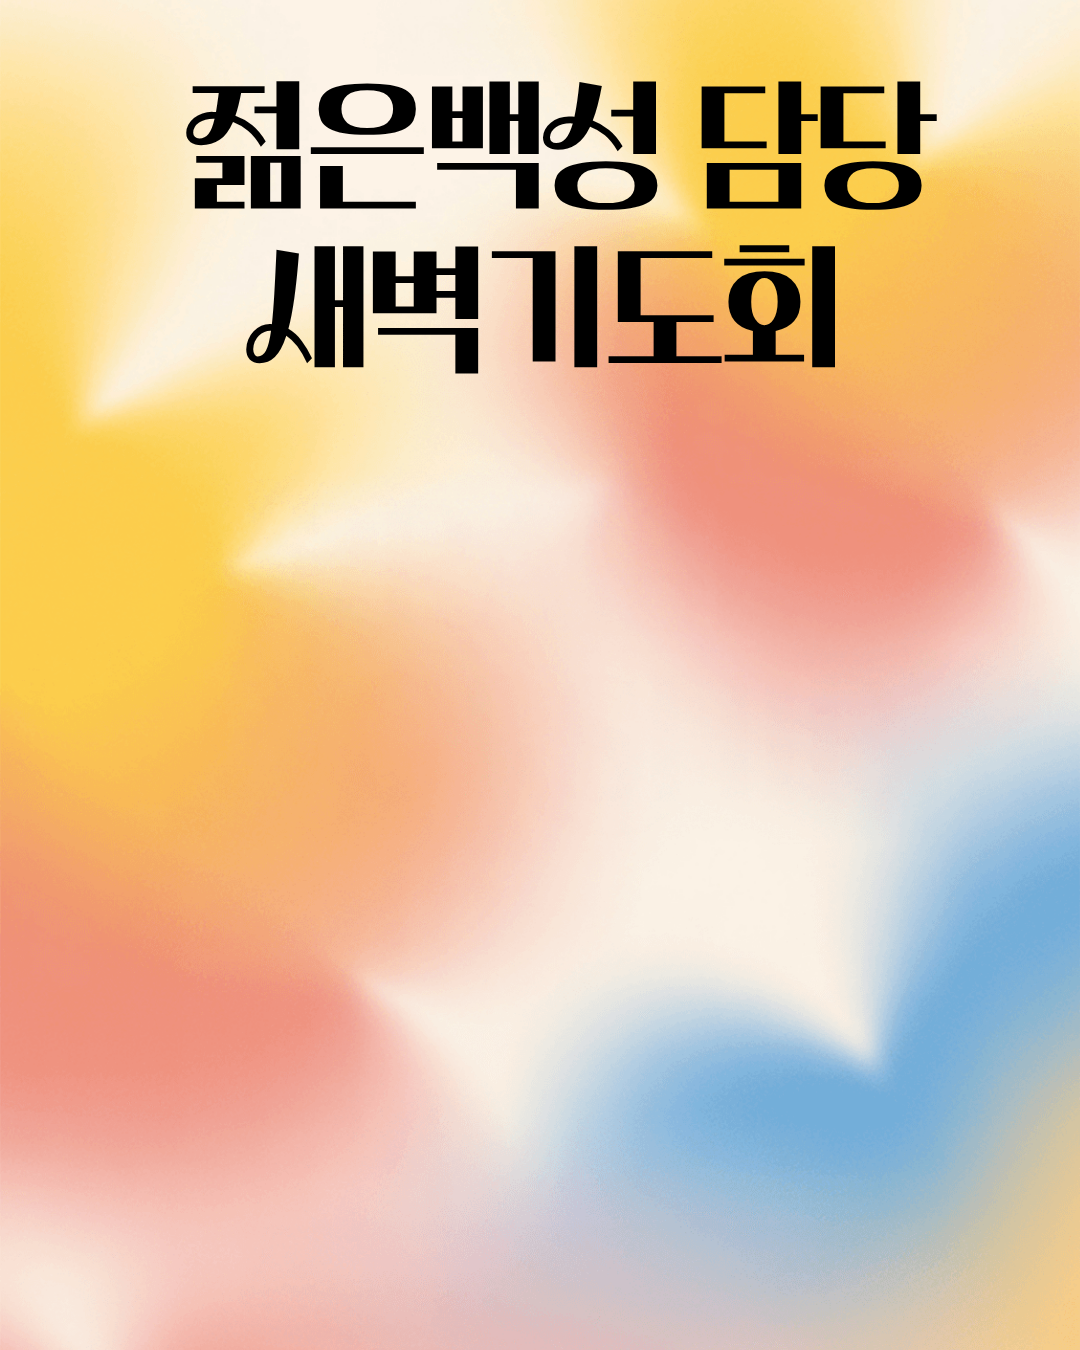
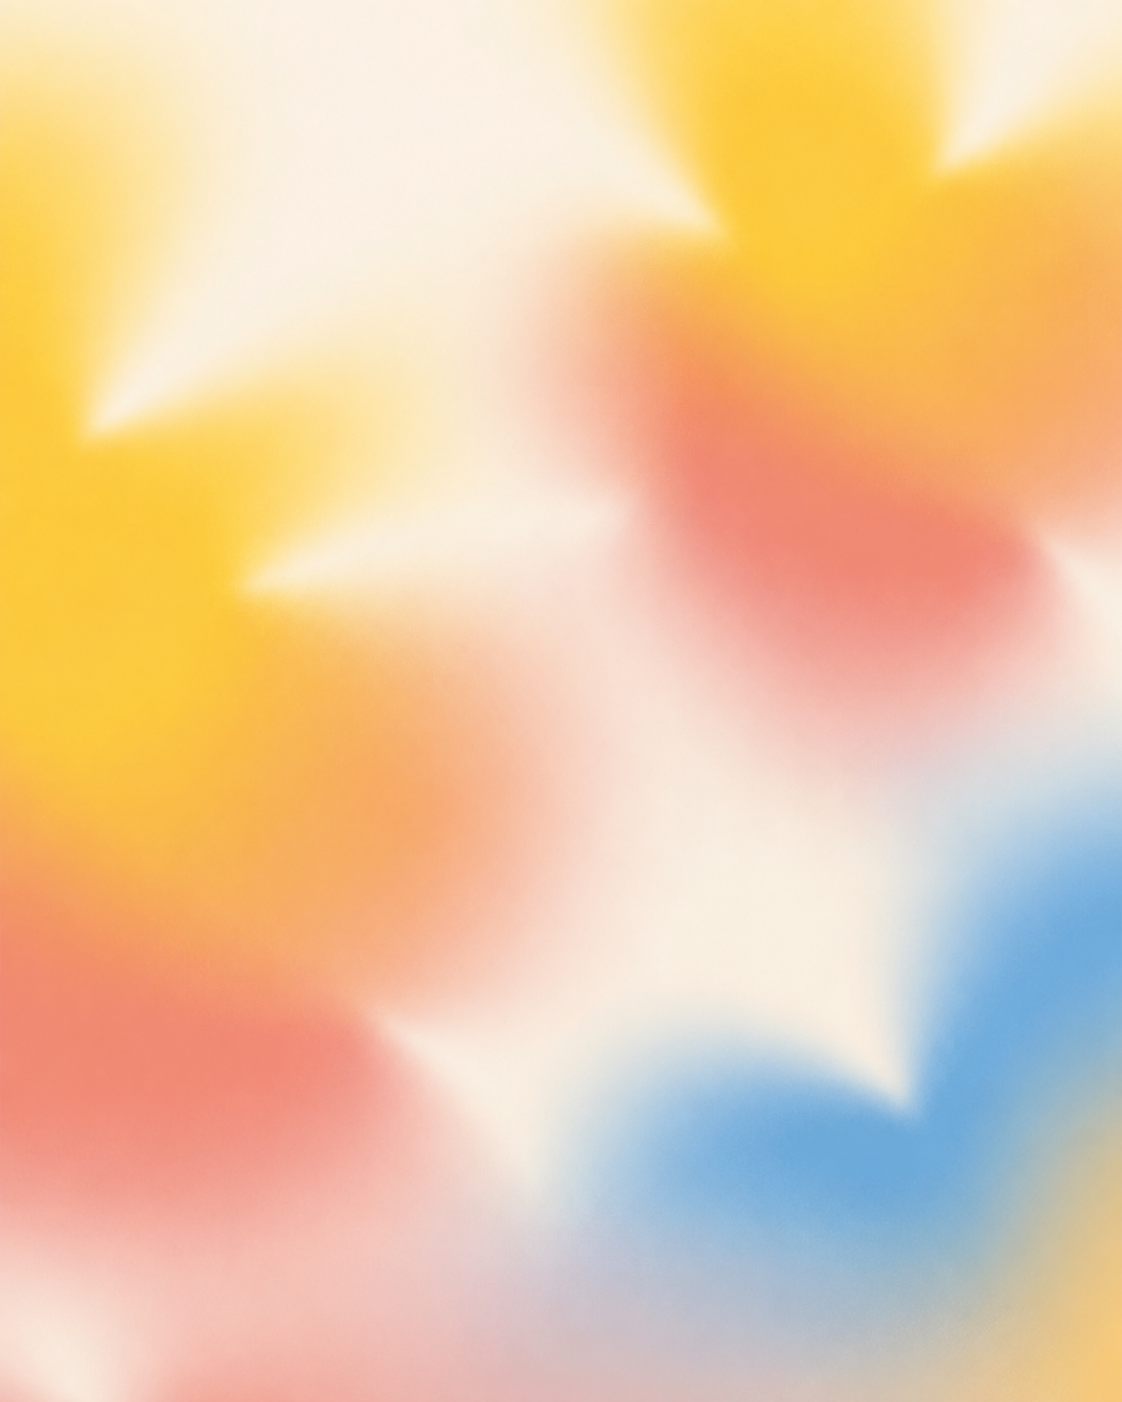
feat: 새벽기도회 체크인 화면에 누적 출석 게이지 추가
목회팀을 제외한 누적 출석 인원을 150/200/230/250명 선물 목표와 함께 진행 바로 표시. 체크인 패널은 compact 모드로 축소하고 게이지는 패널과 같은 카드 스타일로 분리 배치.

Changed region(s): [[0.1528, 0.0622, 0.8556, 0.28]]

diff --git a/src/components/Keypad.tsx b/src/components/Keypad.tsx
@@ -4,6 +4,7 @@ type KeypadProps = {
   maxLength?: number
   disabled?: boolean
   onReset?: () => void
+  size?: 'default' | 'compact'
 }
 
 const ROW1 = [
@@ -36,7 +37,12 @@ function BackspaceIcon() {
   )
 }
 
-export function Keypad({ value, onChange, maxLength = 4, disabled = false, onReset }: KeypadProps) {
+export function Keypad({ value, onChange, maxLength = 4, disabled = false, onReset, size = 'default' }: KeypadProps) {
+  const isCompact = size === 'compact'
+  const keyHeight = isCompact ? 'min-h-[56px] sm:min-h-[64px]' : 'min-h-[80px] sm:min-h-[88px]'
+  const digitTextSize = isCompact ? 'text-2xl sm:text-3xl' : 'text-3xl sm:text-4xl'
+  const containerPadding = isCompact ? 'p-2 sm:p-3 gap-2' : 'p-3 sm:p-4 gap-3'
+
   const handleDigit = (digit: string) => {
     if (disabled || value.length >= maxLength) return
     onChange(value + digit)
@@ -52,57 +58,57 @@ export function Keypad({ value, onChange, maxLength = 4, disabled = false, onRes
       type="button"
       disabled={disabled}
       onClick={() => handleDigit(item.digit)}
-      className="min-h-[80px] sm:min-h-[88px] w-full rounded-2xl bg-white text-slate-800 shadow-[0_2px_4px_rgba(0,0,0,0.08)] border border-slate-200/80 flex flex-col items-center justify-center select-none touch-manipulation active:scale-[0.97] disabled:opacity-50 hover:bg-slate-50"
+      className={`${keyHeight} w-full rounded-2xl bg-white text-slate-800 shadow-[0_2px_4px_rgba(0,0,0,0.08)] border border-slate-200/80 flex flex-col items-center justify-center select-none touch-manipulation active:scale-[0.97] disabled:opacity-50 hover:bg-slate-50`}
     >
-      <span className="text-3xl sm:text-4xl font-semibold leading-none">{item.digit}</span>
+      <span className={`${digitTextSize} font-semibold leading-none`}>{item.digit}</span>
     </button>
   )
 
   return (
-    <div className="w-full max-w-sm mx-auto bg-gray-200 rounded-3xl p-3 sm:p-4 gap-3 grid grid-cols-3">
+    <div className={`w-full max-w-sm mx-auto bg-gray-200 rounded-3xl grid grid-cols-3 ${containerPadding}`}>
       {ROW1.map((item) => (
-        <div key={item.digit} className="min-h-[80px] sm:min-h-[88px]">
+        <div key={item.digit} className={keyHeight}>
           {renderDigitKey(item)}
         </div>
       ))}
       {ROW2.map((item) => (
-        <div key={item.digit} className="min-h-[80px] sm:min-h-[88px]">
+        <div key={item.digit} className={keyHeight}>
           {renderDigitKey(item)}
         </div>
       ))}
       {ROW3.map((item) => (
-        <div key={item.digit} className="min-h-[80px] sm:min-h-[88px]">
+        <div key={item.digit} className={keyHeight}>
           {renderDigitKey(item)}
         </div>
       ))}
       {/* Row 4: 초기화 | 0 | 삭제 */}
-      <div className="min-h-[80px] sm:min-h-[88px]">
+      <div className={keyHeight}>
         <button
           type="button"
           disabled={disabled || !onReset}
           onClick={onReset}
-          className="min-h-[80px] sm:min-h-[88px] w-full rounded-2xl bg-white text-slate-600 shadow-[0_2px_4px_rgba(0,0,0,0.08)] border border-slate-200/80 flex items-center justify-center select-none touch-manipulation active:scale-[0.97] disabled:opacity-50 hover:bg-slate-50 text-sm sm:text-base font-medium"
+          className={`${keyHeight} w-full rounded-2xl bg-white text-slate-600 shadow-[0_2px_4px_rgba(0,0,0,0.08)] border border-slate-200/80 flex items-center justify-center select-none touch-manipulation active:scale-[0.97] disabled:opacity-50 hover:bg-slate-50 text-sm sm:text-base font-medium`}
           aria-label="초기화"
         >
           초기화
         </button>
       </div>
-      <div className="min-h-[80px] sm:min-h-[88px]">
+      <div className={keyHeight}>
         <button
           type="button"
           disabled={disabled}
           onClick={() => handleDigit('0')}
-          className="min-h-[80px] sm:min-h-[88px] w-full rounded-2xl bg-white text-slate-800 shadow-[0_2px_4px_rgba(0,0,0,0.08)] border border-slate-200/80 flex flex-col items-center justify-center select-none touch-manipulation active:scale-[0.97] disabled:opacity-50 hover:bg-slate-50"
+          className={`${keyHeight} w-full rounded-2xl bg-white text-slate-800 shadow-[0_2px_4px_rgba(0,0,0,0.08)] border border-slate-200/80 flex flex-col items-center justify-center select-none touch-manipulation active:scale-[0.97] disabled:opacity-50 hover:bg-slate-50`}
         >
-          <span className="text-3xl sm:text-4xl font-semibold leading-none">0</span>
+          <span className={`${digitTextSize} font-semibold leading-none`}>0</span>
         </button>
       </div>
-      <div className="min-h-[80px] sm:min-h-[88px]">
+      <div className={keyHeight}>
         <button
           type="button"
           disabled={disabled}
           onClick={handleBackspace}
-          className="min-h-[80px] sm:min-h-[88px] w-full rounded-2xl bg-white text-slate-700 shadow-[0_2px_4px_rgba(0,0,0,0.08)] border border-slate-200/80 flex items-center justify-center select-none touch-manipulation active:scale-[0.97] disabled:opacity-50 hover:bg-slate-50"
+          className={`${keyHeight} w-full rounded-2xl bg-white text-slate-700 shadow-[0_2px_4px_rgba(0,0,0,0.08)] border border-slate-200/80 flex items-center justify-center select-none touch-manipulation active:scale-[0.97] disabled:opacity-50 hover:bg-slate-50`}
           aria-label="삭제"
         >
           <BackspaceIcon />

diff --git a/src/components/CheckInPanel.tsx b/src/components/CheckInPanel.tsx
@@ -1,4 +1,4 @@
-import { useState, useCallback } from 'react'
+import { useState, useCallback, type ReactNode } from 'react'
 import confetti from 'canvas-confetti'
 import { Keypad } from './Keypad'
 import { supabase } from '../lib/supabase'
@@ -21,6 +21,9 @@ type CheckInPanelProps = {
   subheading: string
   background: BackgroundConfig
   onBack?: () => void
+  compact?: boolean
+  topSlot?: ReactNode
+  onAttendanceRecorded?: () => void
 }
 
 function isBirthdayThisWeek(birthDate: string | null): boolean {
@@ -49,7 +52,7 @@ function todayString(): string {
   return kst.toISOString().slice(0, 10)
 }
 
-export function CheckInPanel({ heading, subheading, background, onBack }: CheckInPanelProps) {
+export function CheckInPanel({ heading, subheading, background, onBack, compact = false, topSlot, onAttendanceRecorded }: CheckInPanelProps) {
   const [digits, setDigits] = useState('')
   const [message, setMessage] = useState<{ type: 'success' | 'error' | 'info'; text: string } | null>(null)
   const [matches, setMatches] = useState<AnyMember[]>([])
@@ -96,10 +99,11 @@ export function CheckInPanel({ heading, subheading, background, onBack }: CheckI
       setMatches([])
       setDigits('')
       setShowVisitor(false)
+      onAttendanceRecorded?.()
     } catch {
       showMsg('error', '출석 처리에 실패했습니다.')
     }
-  }, [showMsg])
+  }, [showMsg, onAttendanceRecorded])
 
   const recordVisitor = useCallback(async () => {
     const today = todayString()
@@ -114,12 +118,13 @@ export function CheckInPanel({ heading, subheading, background, onBack }: CheckI
       setDigits('')
       setMatches([])
       setShowVisitor(false)
+      onAttendanceRecorded?.()
     } catch {
       showMsg('error', '방문자 출석에 실패했습니다.')
     } finally {
       setLoading(false)
     }
-  }, [showMsg])
+  }, [showMsg, onAttendanceRecorded])
 
   const searchMembers = useCallback(async (fourDigits: string) => {
     if (fourDigits.length !== 4) return
@@ -170,6 +175,10 @@ export function CheckInPanel({ heading, subheading, background, onBack }: CheckI
   }, [])
 
   const isImageBg = background.type === 'image'
+  const cardPadding = compact ? 'p-4 sm:p-5' : 'p-6 sm:p-8'
+  const headingSize = compact ? 'text-xl sm:text-2xl mb-1' : 'text-2xl sm:text-3xl mb-2'
+  const subheadingSize = compact ? 'text-sm sm:text-base mb-2' : 'text-xl mb-4'
+  const digitsBoxSize = compact ? 'h-12 sm:h-14 text-xl sm:text-2xl' : 'h-16 sm:h-20 text-2xl sm:text-3xl'
 
   return (
     <div
@@ -188,12 +197,18 @@ export function CheckInPanel({ heading, subheading, background, onBack }: CheckI
         </button>
       )}
 
-      <div className={isImageBg ? 'w-full max-w-sm rounded-3xl bg-white/90 backdrop-blur-sm shadow-xl p-6 sm:p-8 flex flex-col items-center' : 'flex flex-col items-center'}>
-        <h1 className="text-2xl sm:text-3xl font-bold text-slate-800 mb-2 text-center">{heading}</h1>
-        <p className="text-slate-600 text-xl mb-4 text-center">{subheading}</p>
+      {topSlot && (
+        <div className="w-full flex justify-center mb-4 sm:mb-6">
+          {topSlot}
+        </div>
+      )}
+
+      <div className={isImageBg ? `w-full max-w-sm rounded-3xl bg-white/90 backdrop-blur-sm shadow-xl ${cardPadding} flex flex-col items-center` : 'flex flex-col items-center'}>
+        <h1 className={`${headingSize} font-bold text-slate-800 text-center`}>{heading}</h1>
+        <p className={`${subheadingSize} text-slate-600 text-center`}>{subheading}</p>
 
         <div className="w-full max-w-sm mb-3 sm:mb-4">
-          <div className="h-16 sm:h-20 rounded-2xl bg-white border-2 border-slate-200 flex items-center justify-center gap-4 text-2xl sm:text-3xl font-mono mb-0">
+          <div className={`${digitsBoxSize} rounded-2xl bg-white border-2 border-slate-200 flex items-center justify-center gap-4 font-mono mb-0`}>
             {Array.from({ length: 4 }, (_, i) => (
               <span key={i} className={digits[i] ? 'text-slate-800' : 'text-slate-300'}>
                 {digits[i] ?? '_'}
@@ -263,7 +278,14 @@ export function CheckInPanel({ heading, subheading, background, onBack }: CheckI
           )}
         </div>
 
-        <Keypad value={digits} onChange={handleDigitsChange} maxLength={4} disabled={loading} onReset={handleReset} />
+        <Keypad
+          value={digits}
+          onChange={handleDigitsChange}
+          maxLength={4}
+          disabled={loading}
+          onReset={handleReset}
+          size={compact ? 'compact' : 'default'}
+        />
       </div>
     </div>
   )

diff --git a/src/components/AttendanceGauge.tsx b/src/components/AttendanceGauge.tsx
@@ -1,0 +1,61 @@
+type Milestone = {
+  value: number
+  label: string
+}
+
+type AttendanceGaugeProps = {
+  current: number
+  max: number
+  milestones: Milestone[]
+}
+
+export function AttendanceGauge({ current, max, milestones }: AttendanceGaugeProps) {
+  const pct = Math.min(100, (current / max) * 100)
+
+  return (
+    <div className="w-full max-w-xl bg-white/90 backdrop-blur-sm shadow-xl rounded-3xl p-4 sm:p-5">
+      <div className="flex items-baseline justify-between mb-1.5">
+        <span className="text-xs font-semibold text-slate-500">누적 출석 인원</span>
+        <span className="text-sm font-bold text-primary-dark">
+          {current.toLocaleString()} <span className="text-slate-400 font-medium">/ {max.toLocaleString()}명</span>
+        </span>
+      </div>
+
+      <div className="relative w-full h-4 rounded-full bg-slate-200 overflow-hidden">
+        <div
+          className="h-full rounded-full bg-gradient-to-r from-primary to-primary-dark transition-all duration-700 ease-out"
+          style={{ width: `${pct}%` }}
+        />
+        {milestones.map((m) => (
+          <div
+            key={m.value}
+            className="absolute top-0 bottom-0 w-px bg-white/70"
+            style={{ left: `${(m.value / max) * 100}%` }}
+          />
+        ))}
+      </div>
+
+      {/* 각 목표 인원 지점 바로 아래에 선물 아이콘 + 라벨을 함께 배치 */}
+      <div className="relative w-full h-11 mt-0.5">
+        {milestones.map((m) => {
+          const achieved = current >= m.value
+          return (
+            <div
+              key={m.value}
+              className="absolute top-0 flex flex-col items-center gap-0.5"
+              style={{ left: `${(m.value / max) * 100}%`, transform: 'translateX(-50%)' }}
+            >
+              <span className={`text-base leading-none ${achieved ? '' : 'grayscale opacity-40'}`}>🎁</span>
+              <span className={`text-[9px] leading-tight font-semibold whitespace-nowrap ${achieved ? 'text-primary-dark' : 'text-slate-400'}`}>
+                {m.label}
+              </span>
+              <span className={`text-[9px] leading-tight whitespace-nowrap ${achieved ? 'text-slate-600' : 'text-slate-400'}`}>
+                {m.value}명
+              </span>
+            </div>
+          )
+        })}
+      </div>
+    </div>
+  )
+}

diff --git a/src/pages/DawnPrayerCheckIn.tsx b/src/pages/DawnPrayerCheckIn.tsx
@@ -1,16 +1,50 @@
+import { useCallback, useEffect, useState } from 'react'
 import { CheckInPanel } from '../components/CheckInPanel'
+import { AttendanceGauge } from '../components/AttendanceGauge'
+import { supabase } from '../lib/supabase'
+
+// 2026년 7월 특별새벽기도회 기간 — yople-admin의 DAWN_PRAYER_DATES와 동일하게 유지
+const DAWN_PRAYER_START = '2026-07-13'
+const DAWN_PRAYER_END = '2026-07-17'
+
+const GAUGE_MAX = 250
+const MILESTONES = [
+  { value: 150, label: '선물1' },
+  { value: 200, label: '선물2' },
+  { value: 230, label: '선물3' },
+  { value: 250, label: '선물4' },
+]
 
 type Props = {
   onBack?: () => void
 }
 
 export default function DawnPrayerCheckIn({ onBack }: Props) {
+  const [attendanceCount, setAttendanceCount] = useState(0)
+
+  const fetchCount = useCallback(async () => {
+    const { data, error } = await supabase.rpc('get_dawn_prayer_attendance_count', {
+      p_start: DAWN_PRAYER_START,
+      p_end: DAWN_PRAYER_END,
+    })
+    if (!error && typeof data === 'number') {
+      setAttendanceCount(data)
+    }
+  }, [])
+
+  useEffect(() => {
+    fetchCount()
+  }, [fetchCount])
+
   return (
     <CheckInPanel
       heading="새벽기도회 출석체크"
       subheading="전화번호 뒷 4자리를 입력하세요"
       background={{ type: 'image', src: '/특새배경.png' }}
       onBack={onBack}
+      compact
+      topSlot={<AttendanceGauge current={attendanceCount} max={GAUGE_MAX} milestones={MILESTONES} />}
+      onAttendanceRecorded={fetchCount}
     />
   )
 }

diff --git a/src/pages/Landing.tsx b/src/pages/Landing.tsx
@@ -21,7 +21,7 @@ export default function Landing({ onSelectSunday, onSelectDawnPrayer }: Props) {
         onClick={onSelectDawnPrayer}
         className="w-full max-w-sm min-h-[88px] rounded-2xl bg-primary text-white text-xl font-semibold shadow-sm hover:bg-primary-dark active:scale-[0.99]"
       >
-        특별새벽기도회 출석체크
+        새벽기도회 출석체크
       </button>
     </div>
   )
